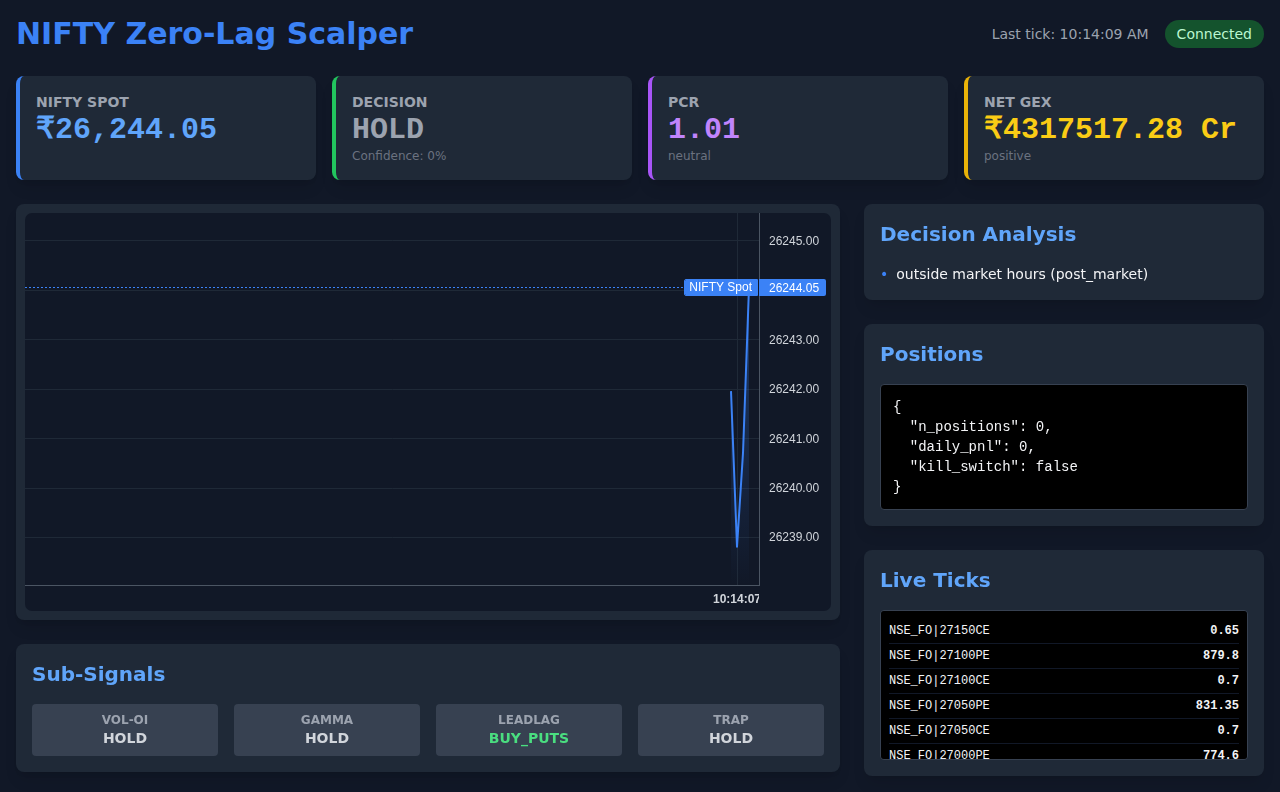
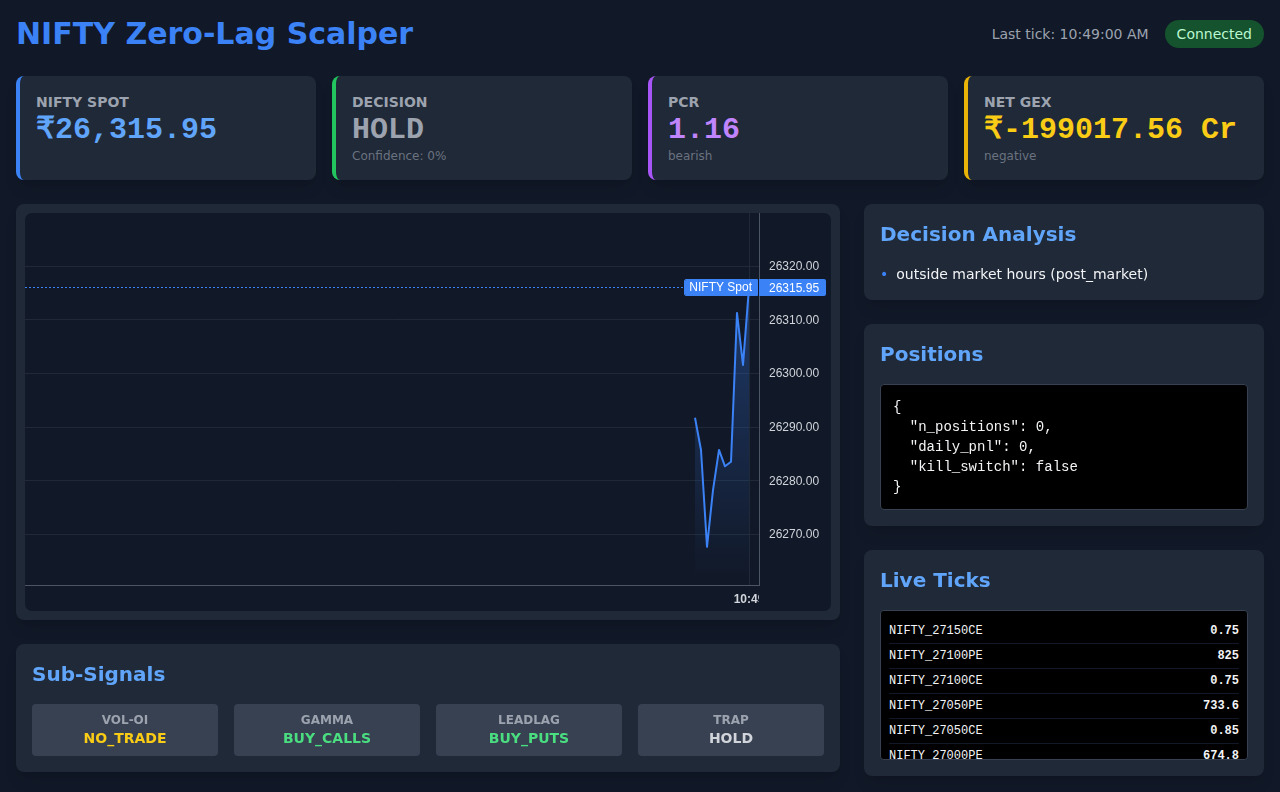
Implement robust Upstox instrument key and trading symbol mapping.
- Enhanced `app.py` to cache Upstox instrument keys, symbols, and expiries.
- Refactored `composite.py` to prioritize mapped keys in the execution matrix.
- Updated UI to display human-readable symbols while using raw keys for routing.
- Added historical data collection and replay support for Jan 2026.
- Ensured PEP 8 compliance and comprehensive docstrings.

diff --git a/src/templates/index.html b/src/templates/index.html
@@ -172,6 +172,8 @@
 
         function handleTick(tick) {
             // console.log("Tick received:", tick.instrument_key, tick.ltp);
+            const label = tick.symbol || tick.instrument_key;
+
             if (tick.instrument_key === "NSE_INDEX|Nifty 50" || tick.instrument_key === "NSE_INDEX:Nifty 50") {
                 spotPriceEl.innerText = `₹${tick.ltp.toLocaleString('en-IN', {minimumFractionDigits: 2})}`;
                 lineSeries.update({
@@ -182,7 +184,7 @@
 
             const line = document.createElement('div');
             line.className = 'border-b border-gray-900 py-1 flex justify-between';
-            line.innerHTML = `<span>${tick.instrument_key}</span> <span class="font-bold">${tick.ltp}</span>`;
+            line.innerHTML = `<span>${label}</span> <span class="font-bold">${tick.ltp}</span>`;
             tickStreamEl.prepend(line);
             if (tickStreamEl.childNodes.length > 50) tickStreamEl.removeChild(tickStreamEl.lastChild);
 

diff --git a/src/signals/composite.py b/src/signals/composite.py
@@ -235,7 +235,7 @@ class CompositeEngine:
             expiry = chain["expiry"].iloc[0]
 
         decision, reasons, conf, strike, side, suggested_instrument = self._execution_matrix(
-            st, cfg=cfg, expiry=expiry
+            st, cfg=cfg, expiry=expiry, chain_data=chain
         )
         st.decision = decision
         st.decision_reasons = reasons
@@ -320,6 +320,7 @@ class CompositeEngine:
         st: SignalState,
         cfg: dict | None = None,
         expiry: str | None = None,
+        chain_data: pd.DataFrame | None = None,
     ) -> tuple[str, list[str], float, float | None, str, dict[str, Any] | None]:
         """
         Master Composite Execution Matrix.
@@ -422,18 +423,34 @@ class CompositeEngine:
         strike = self._suggest_strike(st, side)
 
         suggested_instrument: dict[str, Any] | None = None
-        if strike is not None and expiry:
-            try:
-                from data.upstox_client import resolve_option_instrument_master
-                # Underlying name: default to Nifty 50; can be improved later if chain carries underlying.
-                suggested_instrument = resolve_option_instrument_master(
-                    underlying="Nifty 50",
-                    expiry=expiry,
-                    strike=float(strike),
-                    option_type=side,
-                )
-            except Exception:
-                suggested_instrument = None
+        if strike is not None:
+            # First, try to resolve instrument from the input chain_data mapping
+            if chain_data is not None and not chain_data.empty:
+                row = chain_data[chain_data["strike"] == strike]
+                if not row.empty:
+                    prefix = side.lower()
+                    key = row[f"{prefix}_key"].iloc[0] if f"{prefix}_key" in row.columns else None
+                    symbol = row[f"{prefix}_symbol"].iloc[0] if f"{prefix}_symbol" in row.columns else None
+                    if key:
+                        suggested_instrument = {
+                            "instrument_key": key,
+                            "tradingsymbol": symbol,
+                            "instrument_token": key # V3 often uses key as token if not explicitly found
+                        }
+
+            # Fallback to Master Lookup if mapping failed and we have an expiry
+            if suggested_instrument is None and expiry:
+                try:
+                    from data.upstox_client import resolve_option_instrument_master
+                    # Underlying name: default to Nifty 50; can be improved later if chain carries underlying.
+                    suggested_instrument = resolve_option_instrument_master(
+                        underlying="Nifty 50",
+                        expiry=expiry,
+                        strike=float(strike),
+                        option_type=side,
+                    )
+                except Exception:
+                    suggested_instrument = None
 
         if go_score >= required_score and go_score > no_go_score:
             # Multi-Variable Concurrent Pressure Check (Rule 4)

diff --git a/src/app.py b/src/app.py
@@ -108,6 +108,7 @@ async def lifespan(app: FastAPI):
                                 option_key_to_strike_info[key] = {
                                     "strike": strike,
                                     "side": side,
+                                    "symbol": opt_data.get("tradingsymbol", f"NIFTY{strike}{side}"),
                                     "greeks": opt_data.get("option_greeks", {}),
                                     "expiry": current_expiry
                                 }
@@ -141,6 +142,7 @@ async def lifespan(app: FastAPI):
                 option_key_to_strike_info[key] = {
                     "strike": float(strike),
                     "side": side,
+                    "symbol": f"NIFTY_MOCK_{strike}{side}",
                     "greeks": {"delta": 0.5 if side == "CE" else -0.5, "gamma": 0.001, "theta": -1, "vega": 0.1, "iv": 15},
                     "expiry": "2026-06-12"
                 }
@@ -198,6 +200,12 @@ async def handle_new_tick(tick: dict[str, Any]):
     await db_manager.append_tick(db_tick)
 
     # 3. Broadcast to UI
+    # Attach human-readable symbol if we have it in our mapping
+    if instrument in option_key_to_strike_info:
+        tick["symbol"] = option_key_to_strike_info[instrument].get("symbol")
+    elif instrument == "NSE_INDEX|Nifty 50" or instrument == "NSE_INDEX:Nifty 50":
+        tick["symbol"] = "NIFTY Spot"
+
     payload = {
         "type": "tick",
         "data": tick
@@ -248,6 +256,8 @@ async def signal_feed_loop(source: WSQueueSource):
                 strikes[strike][f"{prefix}_ltp"] = tick["ltp"]
                 strikes[strike][f"{prefix}_volume"] = tick.get("volume", 0)
                 strikes[strike][f"{prefix}_oi"] = tick.get("oi", 0)
+                strikes[strike][f"{prefix}_key"] = key
+                strikes[strike][f"{prefix}_symbol"] = info.get("symbol")
 
                 # Add Greeks for Feature Engine
                 greeks = info["greeks"]
@@ -374,6 +384,7 @@ async def replay_generator(db_path: str, date_str: str):
             option_key_to_strike_info[key] = {
                 "strike": strike,
                 "side": side,
+                "symbol": f"NIFTY_{int(strike)}{side}", # Local simulation symbol
                 "greeks": {
                     "delta": row.get(f"{side.lower()}_delta"),
                     "gamma": row.get(f"{side.lower()}_gamma"),
